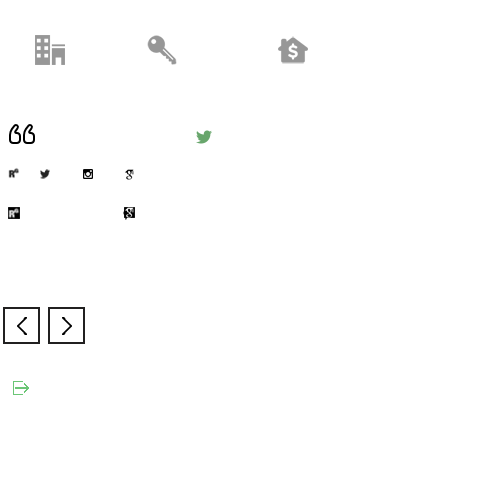
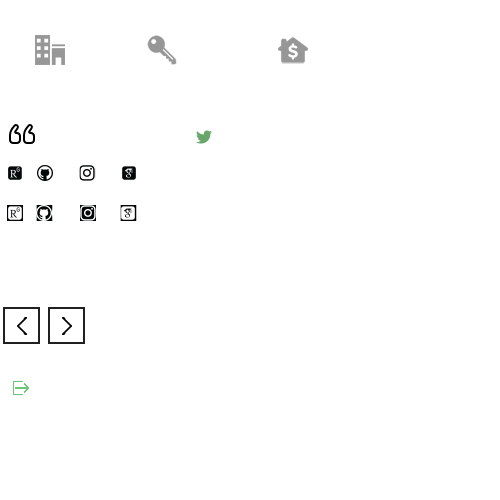
twitter delete, github add

diff --git a/index.html b/index.html
@@ -176,7 +176,7 @@ I am passionate about science communication and open science data policy. <b>Sci
 					<div class="social">
 						<ul class="social-nav model-8">
 							<li><a href="https://www.researchgate.net/profile/Zachery_Zbinden" class="facebook"><i></i></a></li>
-							<li><a href="https://twitter.com/ZDZbinden" class="twitter"><i> </i></a></li>
+							<li><a href="https://github.com/zdzbinden" class="twitter"><i> </i></a></li>
 							<li><a href="https://www.instagram.com/zdzbinden/" class="g"><i></i></a></li>
 							<li><a href="https://scholar.google.com/citations?user=njocTMQAAAAJ&hl=en" class="p"><i></i></a></li>
 						</ul>

diff --git a/CV.html b/CV.html
@@ -106,7 +106,7 @@
 					<div class="social">
 						<ul class="social-nav model-8">
 							<li><a href="https://www.researchgate.net/profile/Zachery_Zbinden" class="facebook"><i></i></a></li>
-							<li><a href="https://twitter.com/ZDZbinden" class="twitter"><i> </i></a></li>
+							<li><a href="https://github.com/zdzbinden" class="twitter"><i> </i></a></li>
 							<li><a href="https://www.instagram.com/zdzbinden/" class="g"><i></i></a></li>
 							<li><a href="https://scholar.google.com/citations?user=njocTMQAAAAJ&hl=en" class="p"><i></i></a></li>
 						</ul>

diff --git a/publications.html b/publications.html
@@ -166,7 +166,7 @@
 					<div class="social">
 						<ul class="social-nav model-8">
 							<li><a href="https://www.researchgate.net/profile/Zachery_Zbinden" class="facebook"><i></i></a></li>
-							<li><a href="https://twitter.com/ZDZbinden" class="twitter"><i> </i></a></li>
+							<li><a href="https://github.com/zdzbinden" class="twitter"><i> </i></a></li>
 							<li><a href="https://www.instagram.com/zdzbinden/" class="g"><i></i></a></li>
 							<li><a href="https://scholar.google.com/citations?user=njocTMQAAAAJ&hl=en" class="p"><i></i></a></li>
 						</ul>

diff --git a/research.html b/research.html
@@ -276,7 +276,7 @@
 					<div class="social">
 						<ul class="social-nav model-8">
 							<li><a href="https://www.researchgate.net/profile/Zachery_Zbinden" class="facebook"><i></i></a></li>
-							<li><a href="https://twitter.com/ZDZbinden" class="twitter"><i> </i></a></li>
+							<li><a href="https://github.com/zdzbinden" class="twitter"><i> </i></a></li>
 							<li><a href="https://www.instagram.com/zdzbinden/" class="g"><i></i></a></li>
 							<li><a href="https://scholar.google.com/citations?user=njocTMQAAAAJ&hl=en" class="p"><i></i></a></li>
 						</ul>
